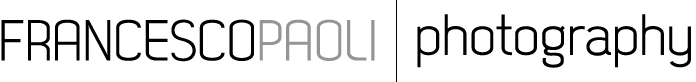
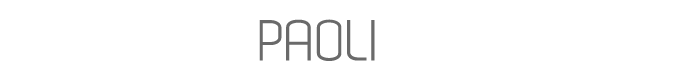
Nuovo Branch: modifica del sito su background nero
modificate alcune immagini
cambiato il css con nuovi colori

Changed region(s): [[0.0, 0.2195, 0.5431, 0.7561], [0.5733, 0.1707, 0.9957, 0.8293]]

diff --git a/css/style.css b/css/style.css
@@ -178,7 +178,14 @@ body {
     height:100%;
     font: 12px/12px  "DekarRegular" "Lucida Sans", "Lucida Grande", sans-serif;
     
-    background: #fdfdfd url(../images/bg-stripe.png) repeat scroll;
+    /*background: #fdfdfd url(../images/bg-stripe.png) repeat scroll;
+    
[1 lines of base64/hex data omitted]
+    */
+   
+      
[1 lines of base64/hex data omitted]
+
 }
 
 a {
@@ -200,9 +207,9 @@ a:hover {
 }
 
 .shadow {
-    -moz-box-shadow:  0px 5px  5px #ccc;
-    -webkit-box-shadow:   0px 5px  5px #ccc;
-    box-shadow:  0px 5px 5px #ccc;
+    -moz-box-shadow:  0px 0px  5px #ccc;
+    -webkit-box-shadow:   0px 0px  5px #ccc;
+    box-shadow:  0px 0px 5px #ccc;
     display: block;
 }
 
@@ -257,12 +264,18 @@ a:hover {
     margin-bottom: 20px;
     display:block;
 }
+
+/*click to enter box*/
 #landing div.photo {
     width: 900px;
     height: 300px;
     background-image: url('../images/land-main.jpg');
     position:relative;
     margin-left: -105px; 
+    
+    -moz-box-shadow: 0px 10px 19px #555;
+    -webkit-box-shadow: 0px 10px 19px #555;
+    box-shadow: 0px 10px 19px #555;
 }
 #landing a.click{
     position:absolute;
@@ -323,9 +336,8 @@ a:hover {
     display: block;
     position:relative;
  
-    background: url(../images/logo-white.png) top left no-repeat; 
+    background: url(../images/logo-dark.png) top left no-repeat; 
     
-    opacity: 0.7;
 }
 
 #header a.home-logo:hover {
@@ -348,16 +360,17 @@ opacity:.5;
     
 }
 #header ul.nav-menu li a {
-    color: #aeaeae;
+    color: #DDD;
     
     padding: 1px 5px;
 }
 #header ul.nav-menu li a.active {
-    color: #111;
+    color: #3b90f7;
 }
 #header ul.nav-menu li a:hover {
-    color: #111;
+    color: #3b90f7; /*blu fluorescente*/
     font-weight: normal;
+    text-shadow: 0 0 5px #3b90f7;
     
     -webkit-transition:All 300ms ease-in-out;
     -moz-transition:All 300ms ease-in-out;
@@ -408,11 +421,11 @@ opacity:.5;
 }
 
 #footer {
-    color: #666666;
+    color: #EEE;
     text-align: center;
     margin: 60px 0;
     font-family: 'DekarRegular';
-    font-size: 100%;
+    font-size: 120%;
 }
 /*-------------------*/
 /*     PHOTOS        */
@@ -488,10 +501,11 @@ opacity:.5;
 
 .contact-intro p {
     margin: 20px 0;
+    color:#EEE
 }
 
 .contact-intro .details {
-    color:#777777;
+    color:#BBB;
     font-size: 10pt;
     font-family: Verdana, Geneva, Arial, Helvetica, sans-serif;
 }
@@ -507,8 +521,9 @@ opacity:.5;
 
 /* CONTACT FORM */
 #contact-wrapper input, #contact-wrapper textarea {
+    color:#020202;
     padding: 7px;
-    border: solid 1px #E5E5E5;
+    border: solid 1px #777;
     outline: 0;
     font: normal 11px/100% Verdana, Tahoma, sans-serif;
     width: 180px;
@@ -531,7 +546,7 @@ opacity:.5;
 
 #contact-wrapper input:hover, #contact-wrapper textarea:hover, 
 #contact-wrapper input:focus, #contact-wrapper textarea:focus {
-    border-color: #C9C9C9;
+    border-color: #224a88;
     
      -webkit-box-shadow: rgba(0, 0, 0, 0.15) 0px 0px 8px;
      -moz-box-shadow: rgba(0, 0, 0, 0.15) 0px 0px 8px;
@@ -539,7 +554,7 @@ opacity:.5;
 }
 #contact-wrapper input:focus, #contact-wrapper textarea:focus {
     background:none;
-    background-color: rgba(230,240,246,0.9);
+    background-color: rgba(230,240,255,0.9);
 }
 
 
@@ -555,7 +570,7 @@ opacity:.5;
     padding-bottom: 25px;
     position:relative;
     top:-10px;
-    color: #999999;
+    color: #EEE;
     
 }
 
@@ -618,6 +633,8 @@ opacity:.5;
 #info-wrapper {
     margin:0 auto;
     padding-top: 20px;
+    
+    color:#F9FDFD;
 }
 .info-text {
     font-family: 'DekarRegular';
@@ -629,7 +646,7 @@ opacity:.5;
     
     width:328px;
     float: left;
-    text-shadow: 1px 0 1px #ddd;
+    text-shadow: 1px 0 1px #111;
 }
 
 .info-text p {
@@ -653,11 +670,13 @@ a.cloud-zoom { /* fix per il link che andava oltre la finestra di zoom */
     
     width:260px;
     
-   
+   /*
     -webkit-box-shadow: 1px 1px 6px #777;
     -moz-box-shadow: 1px 1px 6px #777;
     -ms-box-shadow: 1px 1px 6px #777;
      box-shadow: 1px 1px 6px  #777;
+*/
+    border: 1px solid #999;
 }
 
 
@@ -666,7 +685,7 @@ a.cloud-zoom { /* fix per il link che andava oltre la finestra di zoom */
     float:right;
 }
 .epson-logo{
-    background: transparent url(../images/hahnemuhle-logo.gif) no-repeat top left ;
+    background: transparent url(../images/hahnemuhle-logo-enh.gif) no-repeat top left ;
     width: 250px;
     height: 64px;
     position: absolute;
@@ -691,7 +710,7 @@ a.cloud-zoom { /* fix per il link che andava oltre la finestra di zoom */
 
 .bio-text-content{
     float:left;
-    
+    color:#FDFDFD;
     margin-right:50px;
     margin-top:50px;
     width:350px;
@@ -701,6 +720,7 @@ a.cloud-zoom { /* fix per il link che andava oltre la finestra di zoom */
 
 .bio-text-content p{
    margin: 10px 0;
+   text-shadow: 1px 0 1px #111;
     
 }
 

diff --git a/bio.php b/bio.php
@@ -27,7 +27,7 @@ get_html_tag();
                 </p>
             </div>
             <div class="bio-divider"></div>
-            <img class="bio-image-content" src="images/bio-image-content.png" alt="bio image content" title="Epson Awarded Photo" width="300"/>
+            <img class="bio-image-content" src="images/bio-image-content-enh.gif" alt="bio image content" title="Epson Awarded Photo" width="300"/>
             <div class="clearfix"></div>
         </div><!-- END BIO-WRAPPER -->
         <div id="footer">

diff --git a/include.php b/include.php
@@ -29,7 +29,7 @@ function get_head($suff) {
 
           <link rel="shortcut icon" href="favicon.ico"> 
           <link rel="apple-touch-icon" href="apple-touch-icon.png">
-          <link rel="stylesheet" href="css/style.css?v=3">
+          <link rel="stylesheet" href="css/style.css?v=4">
           
       
           <script src="js/libs/modernizr-1.7.min.js"></script>

diff --git a/index.php b/index.php
@@ -15,7 +15,7 @@
         <div id="container">
             <img class="header-img" alt="francesco paoli photography" src="images/nome.png" />
 
-            <div class="photo shadow">
+            <div class="photo">
                 <a class="click" href="index2.php">Click to enter</a>
             </div>
             <?php get_footer()
